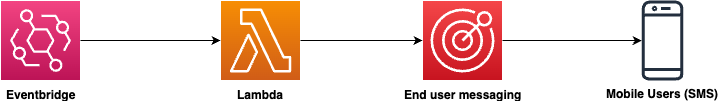
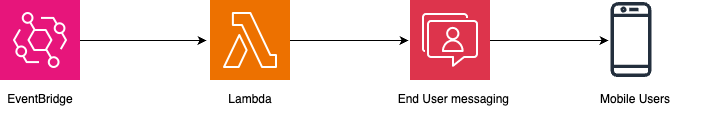
Review comments

diff --git a/lambda-endusermessaging/simple_sms_messaging/simple_sms_messaging_stack.py b/lambda-endusermessaging/simple_sms_messaging/simple_sms_messaging_stack.py
@@ -53,7 +53,7 @@ class SimpleSmSMessagingStack(Stack):
         # Create SMS Sender Lambda Function
         sms_sender_function = _lambda.Function(
             self, "SmsSenderFunction",
-            runtime=_lambda.Runtime.PYTHON_3_11,
+            runtime=_lambda.Runtime.PYTHON_3_13,
             handler="send_sms.lambda_handler",
             code=_lambda.Code.from_asset("lambda/simple_sms_sender"),
             timeout=Duration.seconds(30),

diff --git a/lambda-endusermessaging/README.md b/lambda-endusermessaging/README.md
@@ -1,6 +1,6 @@
-# Amazon Lambda - End User Messaging
+# Sending SMS with AWS Lambda and AWS End User Messaging
 
-This sample pattern demonstrates how to send scheduled SMS messages using AWS Lambda and AWS End User Messaging. The solution uses EventBridge to trigger a Lambda function at a specified time each day, which then sends an SMS message to a configured phone number.
+This sample pattern demonstrates how to send scheduled SMS messages using AWS Lambda and AWS End User Messaging. The solution uses Amazon EventBridge to trigger a Lambda function at a specified time each day, which then sends an SMS message to a configured phone number.
 
 Built with a serverless-first approach, this solution automatically sends messages at your preferred time each day.
  
@@ -24,7 +24,7 @@ The entire solution is built using AWS Cloud Development Kit (CDK) and AWS Lambd
 
 * AWS Lambda
 * AWS End User Messaging SMS
-* AWS Secret Manager
+* AWS Secrets Manager
 * Amazon EventBridge
 
 ### Architecture Diagram
